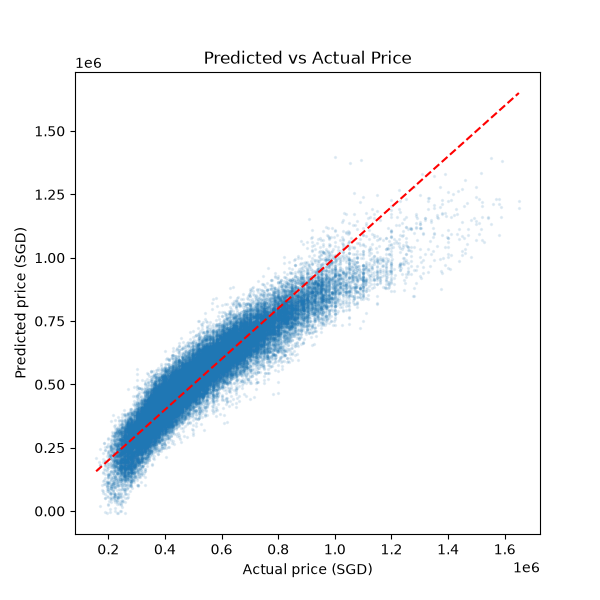
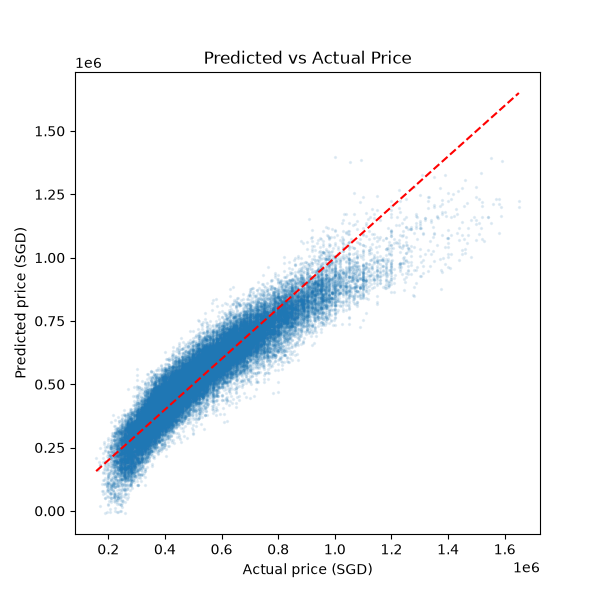
change features: remove lease_left & add lease commence date

diff --git a/hdb_resale_linear_regression.py b/hdb_resale_linear_regression.py
@@ -79,13 +79,14 @@ print(num.corr()["resale_price"].sort_values(ascending=False))
 #   floor_area_sqm (0.56) is the strongest single predictor -> keep
 #   year           (0.41) prices drift upward over time     -> keep
 #   storey         (0.34) higher floors cost more           -> keep
-#   lease_left     (0.30) / flat_age (-0.30) are the same thing (corr -1.00) -> keep only lease_left
-#   lease_commence_date is 0.98 correlated with lease_left  -> drop, it is redundant
+#   lease_commence_date (0.38), lease_left (0.30) and flat_age (-0.30) all describe
+#   the flat's age (corr 0.98 / -1.00 with each other) -> keep only the strongest,
+#   lease_commence_date, and drop the other two as redundant
 # The boxplots show town and flat_type separate the price ranges strongly,
 # so we keep them too and one-hot encode them.
 
 # Select features & spliting training and testing data
-num_features = ["floor_area_sqm", "year", "storey", "lease_left"]
+num_features = ["floor_area_sqm", "year", "storey", "lease_commence_date"]
 cat_features = ["town", "flat_type", "flat_model"]
 
 X = pd.get_dummies(df[num_features + cat_features], columns=cat_features, drop_first=True)
